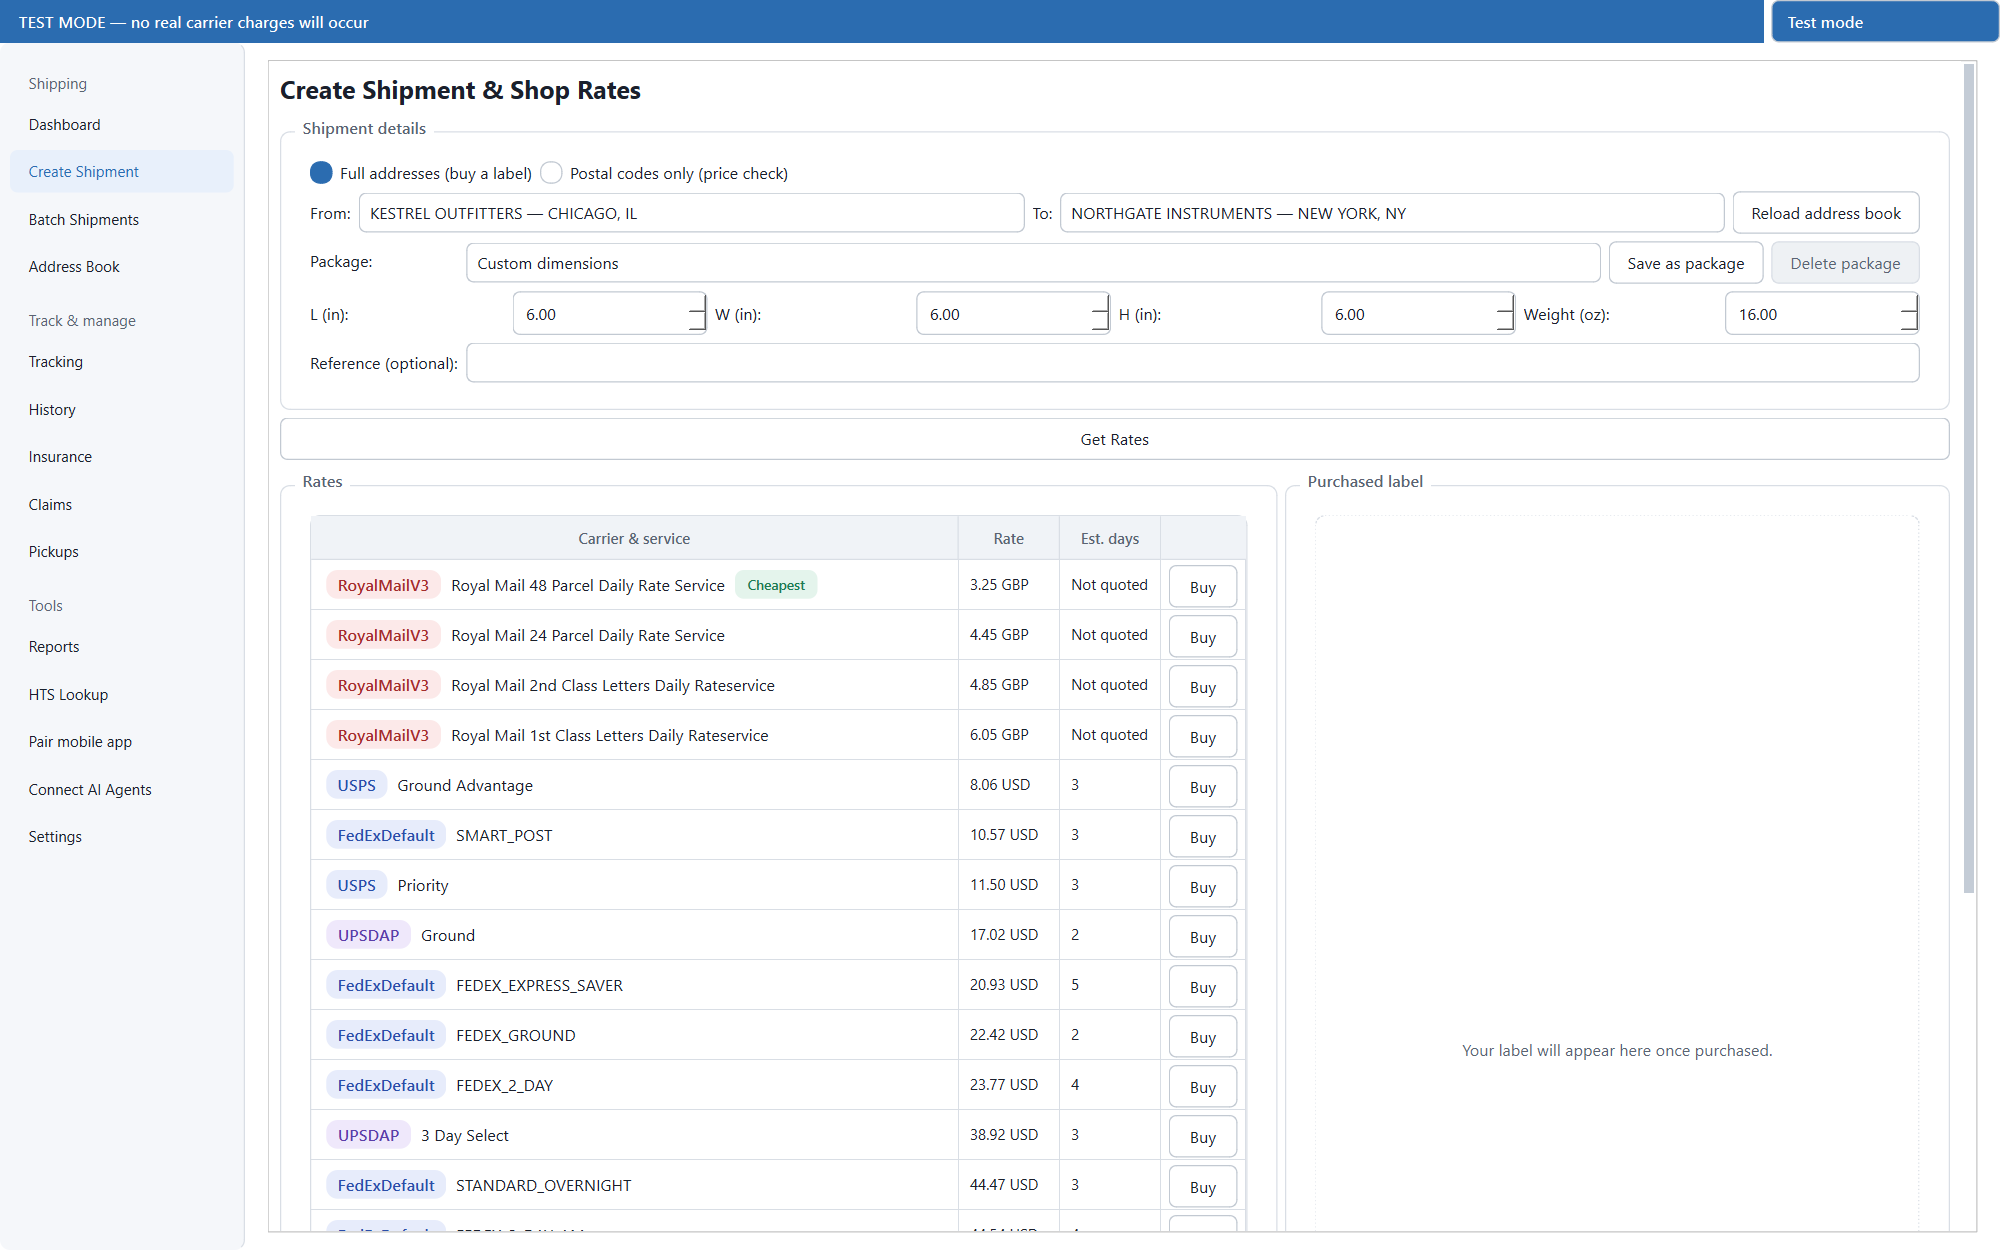
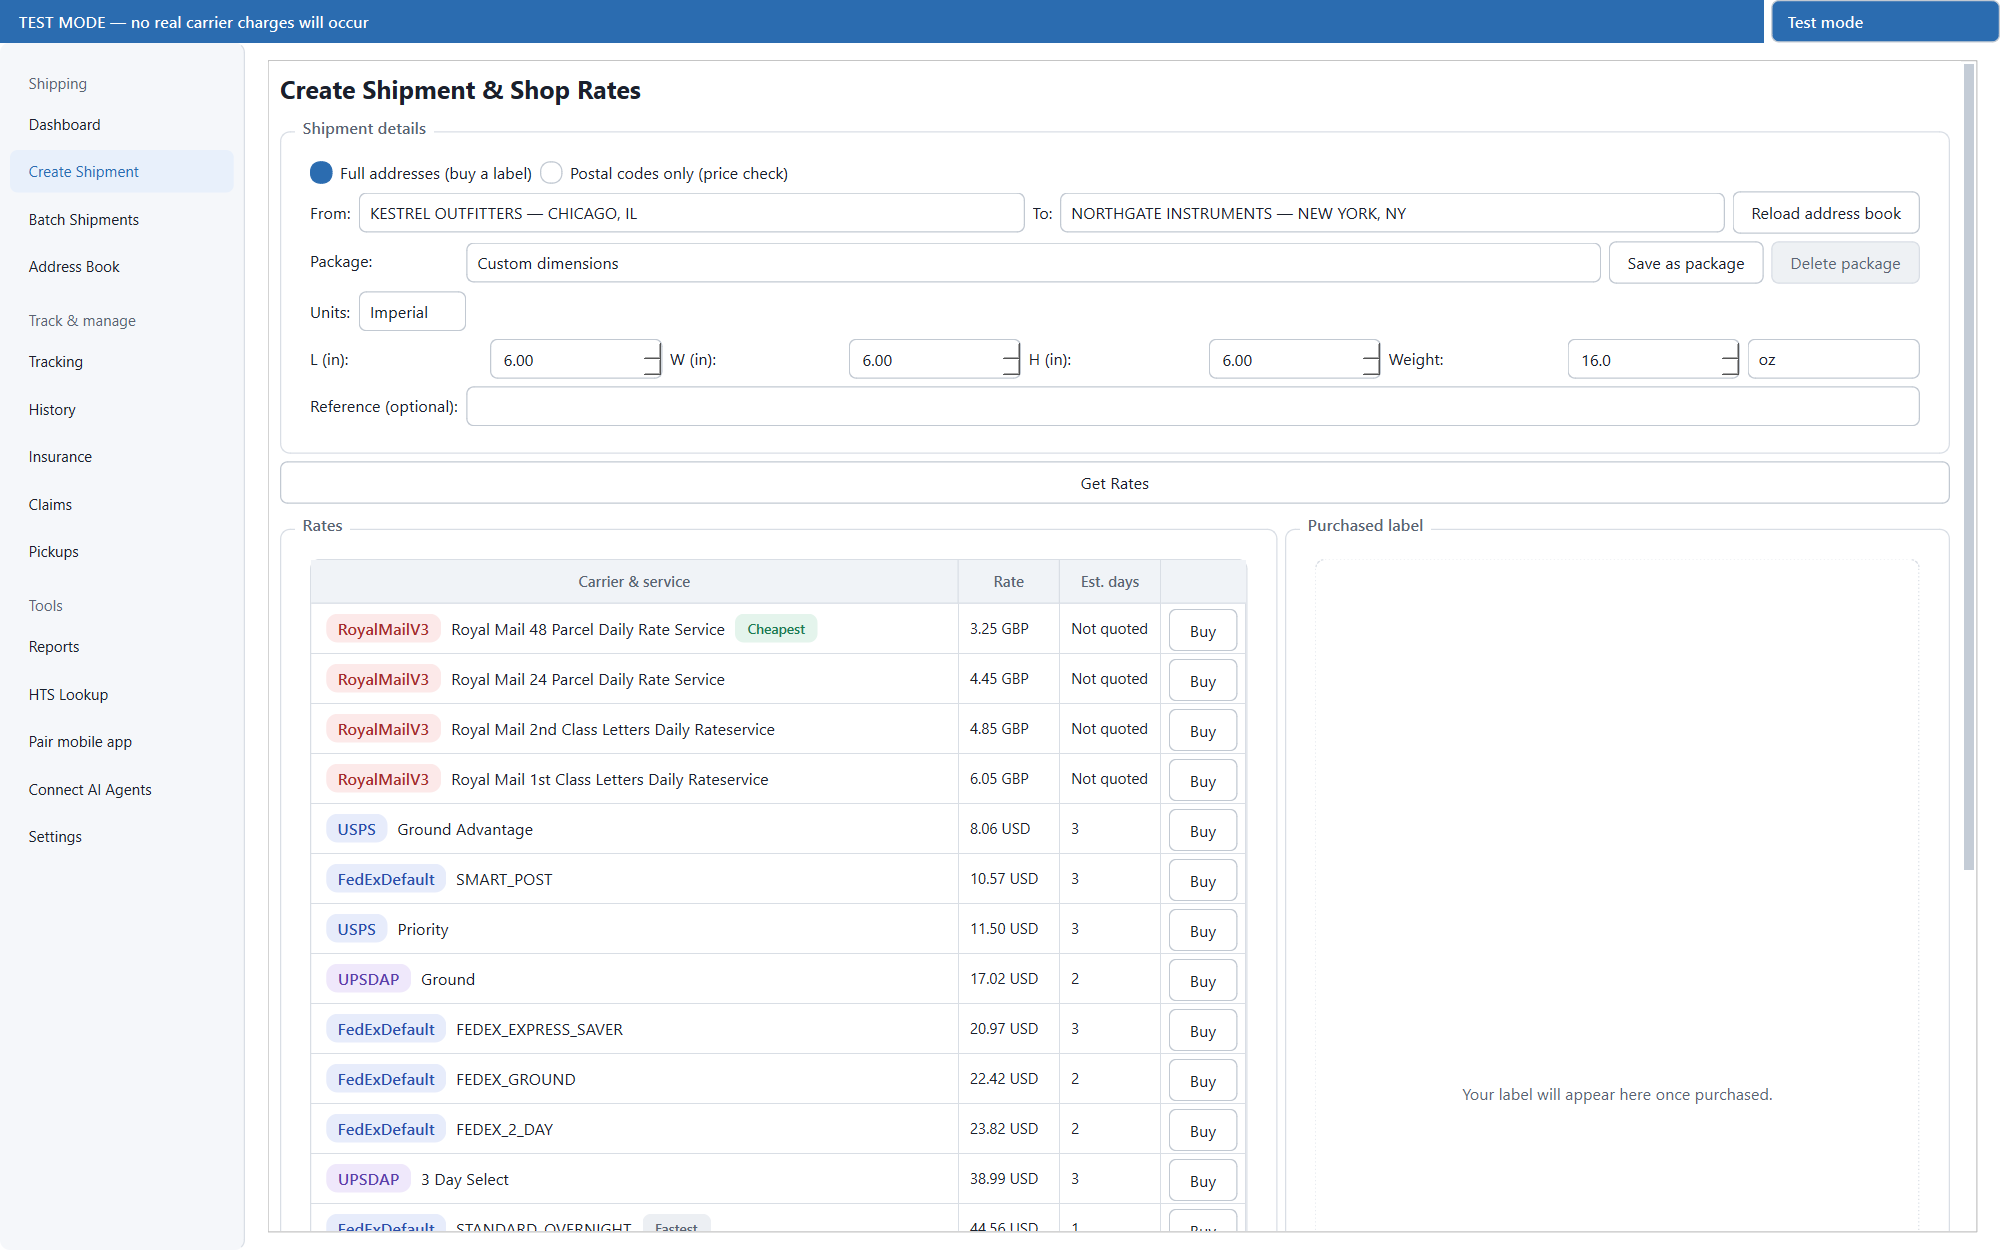
store listing 1.1.2: refresh screenshots (units toggle + print sheet) and 47-language what's-new
Regenerated the Create Shipment, History and Batch screenshots for the 1.1.2
UI and added a new print-sheet screenshot across the 7 localized languages;
extended shoot_screenshots.py to capture the print-sheet dialog. Updated the
English what's-new to cover the label print-sheet and translated it into all 47
Partner Center listing languages (release-notes-1.1.2-translations.json). For
the staged listing import, built at submission time from a fresh export.

diff --git a/store_assets/shoot_screenshots.py b/store_assets/shoot_screenshots.py
@@ -53,6 +53,42 @@ def settle(app, ms=700):
         time.sleep(0.02)
 
 
+def _sample_label(n):
+    """A representative 4x6 shipping label (PNG bytes) for the print-sheet shot.
+
+    The deterministic harness must not hit the network, so the print-sheet
+    dialog's fetch is stubbed with these — a plain carrier-style label with a
+    barcode and tracking line, so the preview looks real without being any
+    genuine customer's data.
+    """
+    import hashlib
+    import io
+
+    from PIL import Image, ImageDraw
+
+    w, h = 800, 1200
+    im = Image.new("RGB", (w, h), "white")
+    d = ImageDraw.Draw(im)
+    d.rectangle([4, 4, w - 5, h - 5], outline="black", width=4)
+    d.rectangle([0, 0, w, 120], fill="black")
+    d.text((30, 44), f"EASY-POST  ·  {n}", fill="white")
+    d.text((30, 170), "USPS Priority Mail", fill="black")
+    d.text((30, 214), "To: Sample Recipient", fill="black")
+    x = 40
+    seed = hashlib.md5(str(n).encode()).digest()
+    for i in range(120):
+        bw = 3 + (seed[i % len(seed)] % 6)
+        if i % 2 == 0:
+            d.rectangle([x, h - 260, x + bw, h - 80], fill="black")
+        x += bw + 3
+        if x > w - 60:
+            break
+    d.text((40, h - 60), f"9400 1000 0000 000{n}", fill="black")
+    b = io.BytesIO()
+    im.save(b, "PNG")
+    return b.getvalue()
+
+
 def main():
     from app.core.settings import load_settings, save_settings
 
@@ -167,6 +203,39 @@ def main():
         pix = win.grab()
         pix.save(str(path), "PNG")
         written.append(path.name)
+
+    # 10 — Print sheet dialog (new in 1.1.2). Stub the network fetch with sample
+    # labels so the harness stays offline, then composite the dialog onto a
+    # Store-sized canvas (the dialog alone is below the 1366x768 minimum).
+    try:
+        from app.ui.widgets import print_sheet_dialog as psd
+
+        psd.fetch_label_images = lambda urls: ([_sample_label(k) for k in range(1, 5)], [])
+        dlg = psd.PrintSheetDialog(["a", "b", "c", "d"], win)
+        dlg.setAttribute(Qt.WidgetAttribute.WA_DontShowOnScreen, True)
+        dlg.show()
+        for _ in range(40):
+            settle(app, 200)
+            pm = dlg._preview.pixmap()
+            if dlg._save_btn.isEnabled() and pm is not None and not pm.isNull():
+                break
+        settle(app, 400)
+        tmp = lang_dir / "_dlg.png"
+        dlg.grab().save(str(tmp), "PNG")
+        dlg.close()
+
+        from PIL import Image
+
+        bg = Image.new("RGB", SIZE, (245, 246, 248))
+        fg = Image.open(str(tmp)).convert("RGB")
+        bg.paste(fg, ((SIZE[0] - fg.width) // 2, (SIZE[1] - fg.height) // 2))
+        out = lang_dir / "10_print_sheet.png"
+        bg.save(str(out), "PNG")
+        tmp.unlink(missing_ok=True)
+        written.append(out.name)
+        print(f"    print_sheet dialog {fg.width}x{fg.height}")
+    except Exception as exc:
+        print(f"    note print_sheet: {str(exc)[:120]}")
 
     print(f"  {target}: {len(written)} shots -> {lang_dir}")
     win.close()

diff --git a/store_assets/RELEASE-NOTES-1.1.2.md b/store_assets/RELEASE-NOTES-1.1.2.md
@@ -1,0 +1,26 @@
+# Easy-Post Desktop — release notes 1.1.2
+
+Master English ("what's new") copy for the version 1.1.2 store listings. House
+style: no Oxford commas, no abbreviations, no pronouns, British spelling.
+
+Applies to the Microsoft Store listing (ReleaseNotes field) and, reworded per
+platform limits, the App Store "What's New". Version 1.1.2 adds two user-facing
+features — a Create Shipment units toggle and a printable label sheet — so the
+Create Shipment screenshot changes and a new label-sheet screenshot is added
+(the other pages are unchanged from 1.1.1).
+
+## en-US ReleaseNotes
+
+• Metric or imperial units — Create Shipment now offers a measurement-system toggle. Dimensions are entered in centimetres or inches and weight in kilograms, grams, ounces or pounds, then converted automatically before rating so the carrier always receives correct figures. The chosen system is remembered between sessions.
+• Print labels without a thermal printer — combine several purchased labels onto one sheet and save a print-ready PDF. Pick a label stock such as Avery L7169 or J8169 (four to an A4 sheet), choose laser or inkjet, and each label is sized to fit its cell so nothing is clipped. A one-time calibration keeps the print aligned to the peel-off labels.
+• Refinements and fixes throughout.
+
+## Notes for translation
+
+- Keep the three bullet points and the em-dash lead-in on the first two bullets.
+- "Create Shipment" and "Get Rates" are interface labels — translate to match
+  the localized interface strings already used in each language's listing.
+- "Avery", "L7169", "J8169", "A4", "PDF", "laser" and "inkjet" are product or
+  format names — keep "Avery/L7169/J8169/A4/PDF" verbatim; translate
+  "laser"/"inkjet" to the standard printer terms in each language.
+- Preserve British spelling conventions in languages that distinguish them.
